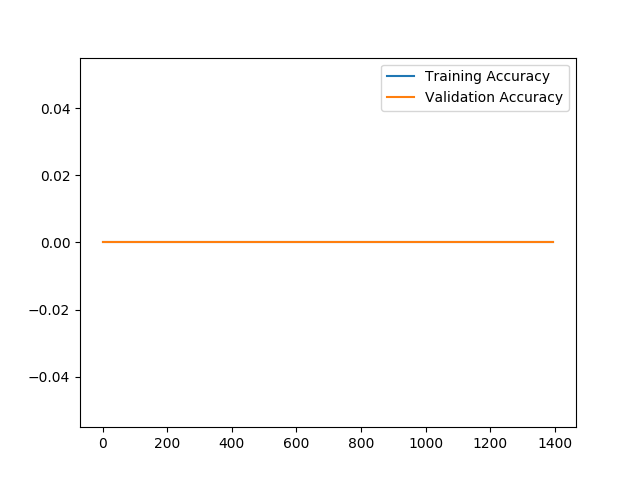
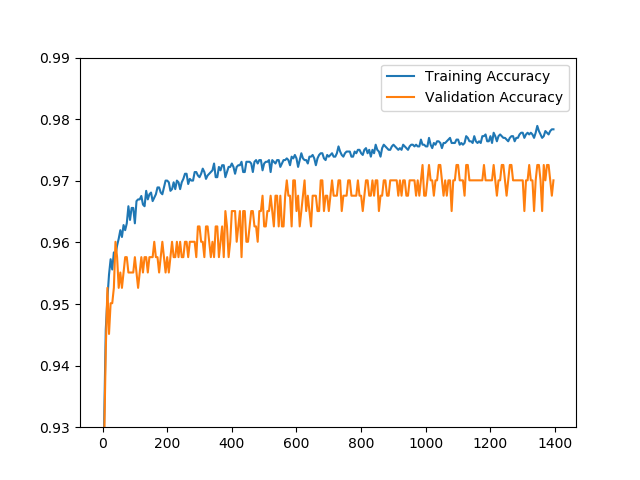
accuracy calc

diff --git a/assignment1/task2.py b/assignment1/task2.py
@@ -14,9 +14,17 @@ def calculate_accuracy(X: np.ndarray, targets: np.ndarray, model: BinaryModel) -
     Returns:
         Accuracy (float)
     """
+        
     # Task 2c
-    accuracy = 0.0
-    return accuracy
+    outputs = model.forward(X)
+    N = targets.shape[0]
+    binary_threshold = 0.5
+    correctOutputs = 0
+    for i in range(N):
+        if (targets[i] == 1 and outputs[i] >= binary_threshold) or (targets[i] == 0 and outputs[i] < binary_threshold):
+            correctOutputs += 1
+    return correctOutputs / N
+    
 
 
 def train(
@@ -117,7 +125,7 @@ print("Test accuracy:", calculate_accuracy(X_test, Y_test, model))
 
 
 # Plot loss
-#plt.ylim([0., .4]) 
+plt.ylim([0., .4]) 
 utils.plot_loss(train_loss, "Training Loss")
 utils.plot_loss(val_loss, "Validation Loss")
 plt.legend()
@@ -126,7 +134,7 @@ plt.show()
 
 
 # Plot accuracy
-#plt.ylim([0.93, .99])
+plt.ylim([0.93, .99])
 utils.plot_loss(train_accuracy, "Training Accuracy")
 utils.plot_loss(val_accuracy, "Validation Accuracy")
 
